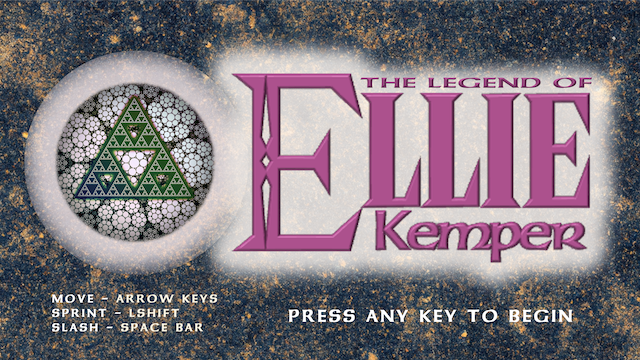
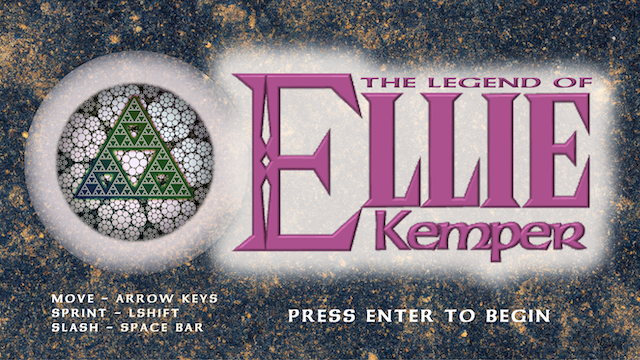
final fixes

diff --git a/v2/code/titlepage.py b/v2/code/titlepage.py
@@ -23,7 +23,7 @@ class TitlePage:
 
     def input(self):
         keys = pygame.key.get_pressed()
-        if any(keys):
+        if keys[pygame.K_RETURN]:
             self.level_complete_status = True
             self.main_sound.stop()
 
